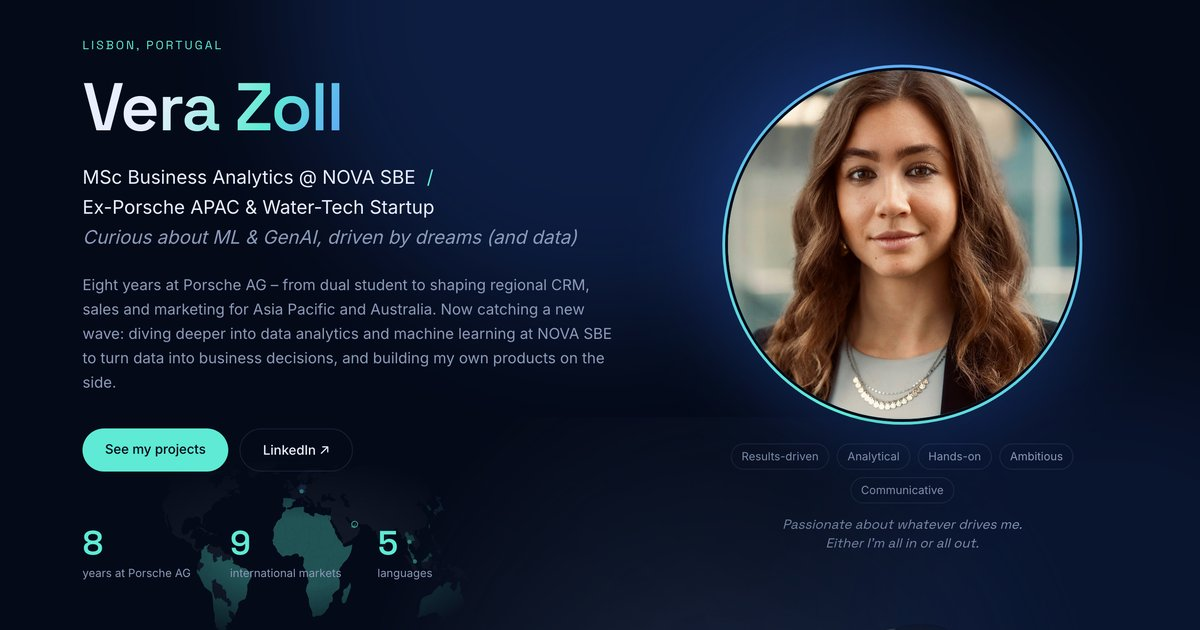
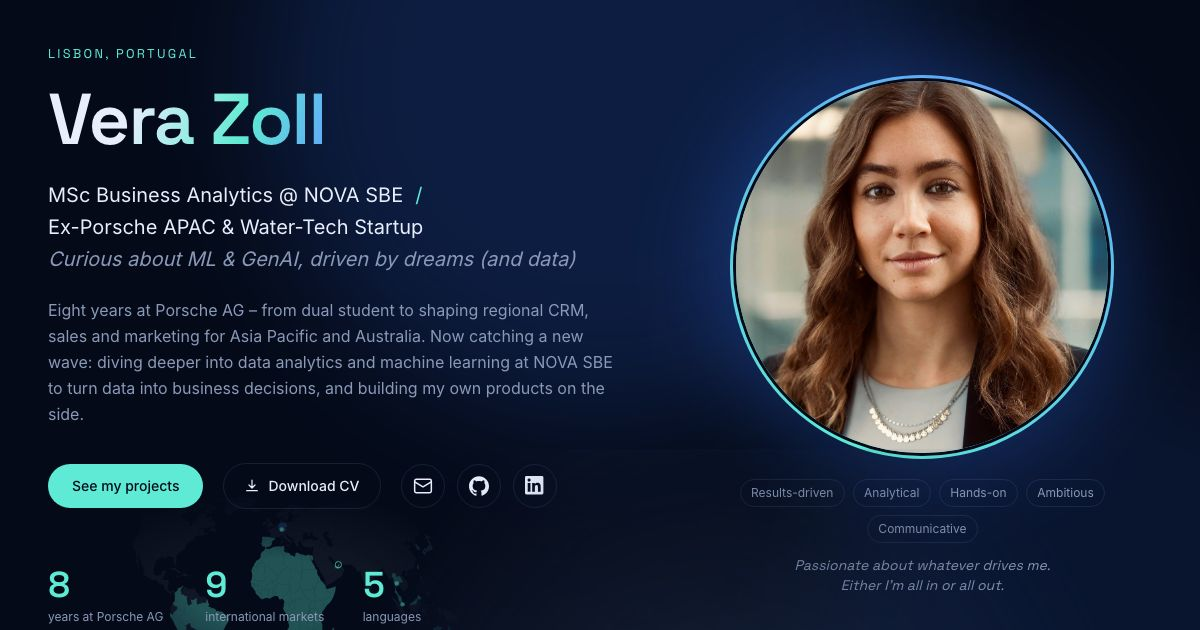
Generate link preview image automatically on every deploy

diff --git a/src/styles/global.css b/src/styles/global.css
@@ -211,3 +211,7 @@ body {
   background: color-mix(in srgb, var(--accent) 8%, transparent);
   outline: none;
 }
+
+/* Link preview screenshot mode (see scripts/og-preview.sh): no nav, hero starts at the top. */
+.og-shot header { display: none; }
+.og-shot .hero { min-height: 0; padding-top: 2.75rem; }
